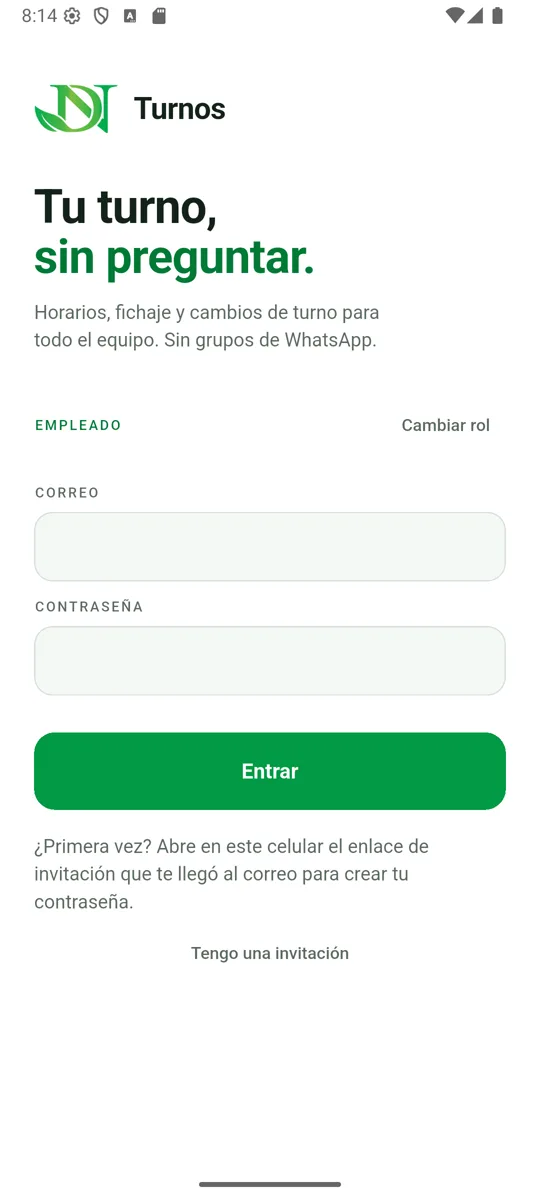
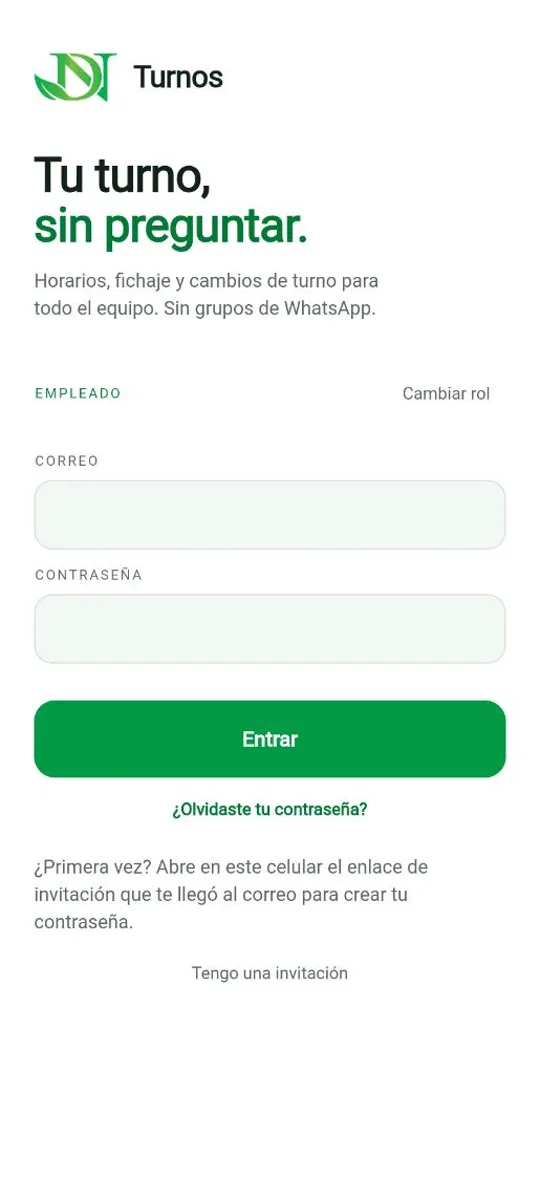
Guía de onboarding: solicitudes del empleado y contraseñas
- Empleado pasa de 9 a 13 pasos: ¿Olvidaste tu contraseña?, contraseña
  nueva, pedir día libre y avisar que llegará tarde.
- Capturas nuevas de Hoy del empleado, inicio de sesión con el enlace de
  recuperación y solicitudes del gerente.
- Tabla de reglas con request_day_off(), notify_late(), avisos de turnos y
  contraseñas.
- launch.json: servir la versión web compilada (turnos-web-build).

diff --git a/docs/onboarding/index.html b/docs/onboarding/index.html
@@ -166,7 +166,7 @@ table.rules { width: 100%; border-collapse: collapse; font-size: 14.5px; min-wid
     <p class="lede">El gerente registra su empresa, crea sus sitios y turnos, e invita al equipo. Cada empleado entra por esa invitación y ya queda dentro de la empresa correcta. Elige un rol y mira el recorrido con las pantallas reales.</p>
     <div class="roles" role="tablist" aria-label="Rol">
       <button type="button" role="tab" id="tab-gerente" data-role="gerente" aria-selected="true">Gerente <span class="n">14 pasos</span></button>
-      <button type="button" role="tab" id="tab-empleado" data-role="empleado" aria-selected="false">Empleado <span class="n">9 pasos</span></button>
+      <button type="button" role="tab" id="tab-empleado" data-role="empleado" aria-selected="false">Empleado <span class="n">13 pasos</span></button>
     </div>
   </header>
 
@@ -220,7 +220,9 @@ table.rules { width: 100%; border-collapse: collapse; font-size: 14.5px; min-wid
           <tr><td>Fichaje</td><td><code>clock_in()</code> recibe las coordenadas y calcula la distancia al sitio del turno. Rechaza si está fuera del radio, si el GPS tiene más de 100 m de margen o si es una ubicación falsa.</td><td>“Estás a 240 m del sitio. Acércate para marcar”.</td></tr>
           <tr><td>Editar o cancelar turnos</td><td><code>update_shift()</code> y <code>cancel_shift()</code>: solo el gerente, solo turnos que no han empezado y sin fichajes. Duración de 15 min a 16 h.</td><td>Un turno ya empezado se abre en solo lectura; la persona afectada recibe una notificación.</td></tr>
           <tr><td>Turnos que se cruzan</td><td>La base de datos impide dos turnos a la misma hora para la misma persona.</td><td>“Esa persona ya tiene un turno a esa hora”.</td></tr>
-          <tr><td>Solicitudes y cambios</td><td><code>resolve_request()</code>, <code>offer_shift()</code> y <code>claim_swap()</code> validan cada paso; el gerente confirma.</td><td>Notificación a los dos lados.</td></tr>
+          <tr><td>Solicitudes y cambios</td><td><code>request_day_off()</code> y <code>notify_late()</code> (empleado), <code>resolve_request()</code>, <code>offer_shift()</code> y <code>claim_swap()</code> validan cada paso: fechas, duplicados y que el turno sea propio. El gerente confirma.</td><td>Notificación a los dos lados.</td></tr>
+          <tr><td>Avisos de turnos</td><td>Un trigger en la tabla de turnos avisa siempre que alguien recibe, pierde o ve cambiado un turno, venga de donde venga.</td><td>“Te asignaron un turno el 01/11 09:00”.</td></tr>
+          <tr><td>Contraseñas</td><td>Recuperación con enlace al correo; la contraseña nueva se pide antes de entrar.</td><td>No revela si un correo tiene cuenta.</td></tr>
           <tr><td>Desactivar</td><td>Un perfil o sitio inactivo pierde el acceso, pero el historial se conserva.</td><td>La persona no puede entrar; el sitio deja de aceptar fichajes.</td></tr>
           <tr><td>Fotos de evidencia</td><td>Bucket privado <code>work-evidence</code>, en la carpeta empresa/empleado.</td><td>Solo la ven el empleado y su gerente.</td></tr>
         </tbody>
@@ -282,10 +284,10 @@ const STEPS = {
       do: "La persona aparece en tu equipo con la etiqueta INVITADO hasta que abra el enlace del correo.",
       path: ["Equipo"],
       behind: ["Cuando el empleado crea su contraseña, la etiqueta cambia a ACTIVO sola."] },
-    { img: "m04_home", x: 29, y: 36.5, title: "Aprueba solicitudes",
-      do: "En Hoy ves cuántos trabajan ahora, los turnos sin cubrir y las solicitudes pendientes. Aprueba o rechaza con un toque.",
+    { img: "m04_home", x: 29, y: 36.3, title: "Aprueba solicitudes",
+      do: "En Hoy ves cuántos trabajan ahora, los turnos sin cubrir y las solicitudes pendientes: días libres, avisos de llegada tarde, entradas tarde y cambios de turno. Aprueba o rechaza con un toque.",
       path: ["Hoy", "Aprobar"],
-      behind: ["<code>resolve_request()</code> valida la solicitud en el servidor y avisa al empleado."] },
+      behind: ["Cuando un empleado pide libre o avisa que llegará tarde, te llega una notificación.", "<code>resolve_request()</code> valida la solicitud en el servidor y avisa al empleado. Al aprobar un día libre, sus turnos de ese día quedan sin cubrir.", "Una entrada con más de 10 min de retraso se registra sola como solicitud."] },
     { img: "m14_reports", x: 49, y: 18.3, title: "Revisa horas y costos",
       do: "En Más → Reportes eliges el periodo (esta quincena, la anterior, este mes o el anterior) y ves las horas, los fichajes y el costo estimado de cada persona.",
       path: ["Más", "Reportes", "Periodo"],
@@ -301,14 +303,31 @@ const STEPS = {
       path: ["Correo", "Enlace", "Crear cuenta"],
       behind: ["El enlace inicia tu sesión en la app.", "<code>accept_invite()</code> cambia tu perfil de invitado a activo.", "Ya perteneces a la empresa de tu gerente: no tienes que elegirla."],
       tip: "Abre el enlace <b>en el mismo celular</b> donde está instalada la app." },
-    { img: "e02_login", x: 50, y: 64, title: "Las siguientes veces",
-      do: "Elige Empleado y entra con tu correo y contraseña.",
+    { img: "e02_login", x: 50, y: 61.6, title: "Las siguientes veces",
+      do: "Elige Empleado y entra con tu correo y contraseña. Debajo está ¿Olvidaste tu contraseña? por si no la recuerdas.",
       path: ["Empleado", "Entrar"],
       behind: ["La sesión queda guardada; no tendrás que escribirla cada vez."] },
-    { img: "e03_home", x: 50, y: 39, title: "Mira tu próximo turno",
-      do: "En Hoy ves tu próximo turno, tu semana y lo que requiere tu atención.",
+    { img: "e14_forgot", x: 50, y: 53.2, title: "¿Olvidaste tu contraseña?",
+      do: "Debajo de Entrar toca ¿Olvidaste tu contraseña?, escribe tu correo y toca Enviar enlace.",
+      path: ["Entrar", "¿Olvidaste tu contraseña?", "Enviar enlace"],
+      behind: ["Supabase envía un enlace de recuperación al correo.", "Por seguridad, la app no dice si ese correo tiene cuenta."],
+      tip: "Abre el enlace <b>en el mismo celular</b> donde pediste el cambio." },
+    { img: "e13_newpass", x: 50, y: 44, title: "Crea tu contraseña nueva",
+      do: "Al abrir el enlace, la app te pide la contraseña nueva (mínimo 8 caracteres) antes de entrar. También puedes cambiarla cuando quieras en Perfil → Cambiar contraseña.",
+      path: ["Enlace del correo", "Nueva contraseña", "Guardar"],
+      behind: ["El enlace abre una sesión temporal solo para elegir la contraseña.", "Funciona aunque la app estuviera cerrada."] },
+    { img: "e03_home", x: 27, y: 57.4, title: "Mira tu próximo turno",
+      do: "En Hoy ves tu próximo turno, tu semana, tus solicitudes pendientes y lo que requiere tu atención. Desde aquí también pides un día libre o avisas que llegarás tarde.",
       path: ["Hoy"],
       behind: ["Solo ves tus turnos y los de tu empresa."] },
+    { img: "e11_dayoff", x: 50, y: 73.5, title: "Pide un día libre",
+      do: "Toca Pedir día libre, elige la fecha en el calendario y, si quieres, escribe el motivo. Toca Enviar solicitud.",
+      path: ["Hoy", "Pedir día libre", "Enviar solicitud"],
+      behind: ["<code>request_day_off()</code> acepta fechas de hoy a un año y evita pedir dos veces el mismo día.", "Tu gerente recibe un aviso; la solicitud queda en Tus solicitudes hasta que la resuelva."] },
+    { img: "e10_late", x: 17, y: 74, title: "Avisa que llegarás tarde",
+      do: "Toca Llegaré tarde. Verás el turno al que aplica; elige Unos 10 min, Unos 30 min o Más de 1 hora, o escribe el motivo. Toca Enviar aviso.",
+      path: ["Hoy", "Llegaré tarde", "Enviar aviso"],
+      behind: ["<code>notify_late()</code> solo acepta tu turno en curso o de las próximas 24 h, una vez por turno.", "Tu gerente lo ve como aviso, separado de la entrada tarde que se registra al fichar."] },
     { img: "e04_clock", x: 50, y: 87, title: "Marca entrada",
       do: "Al llegar al sitio, toca Marcar entrada. La app indica si estás dentro del sitio.",
       path: ["Hoy", "Marcar entrada"],
